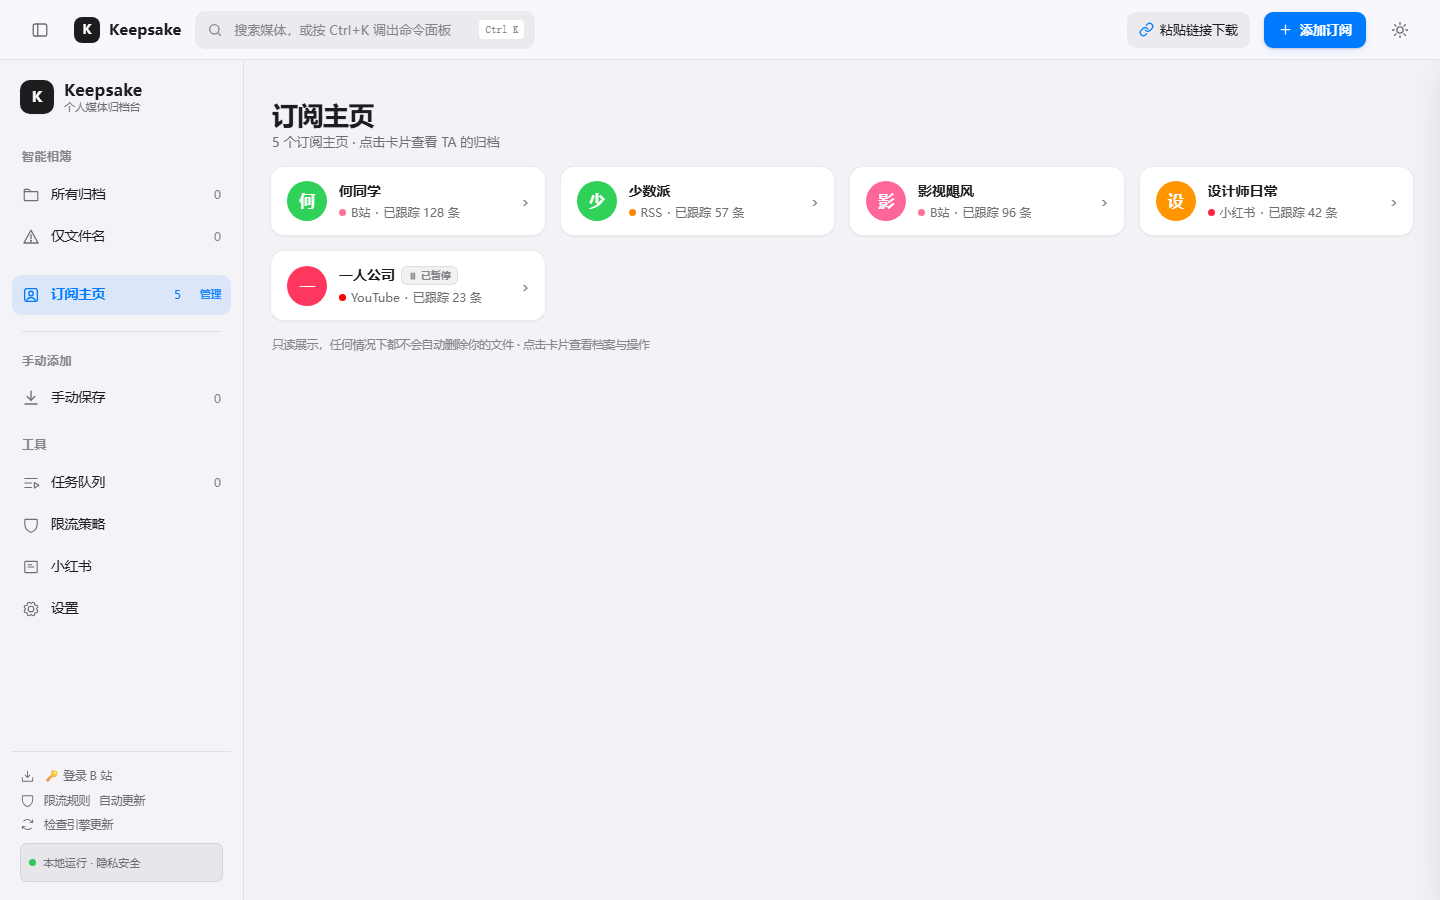
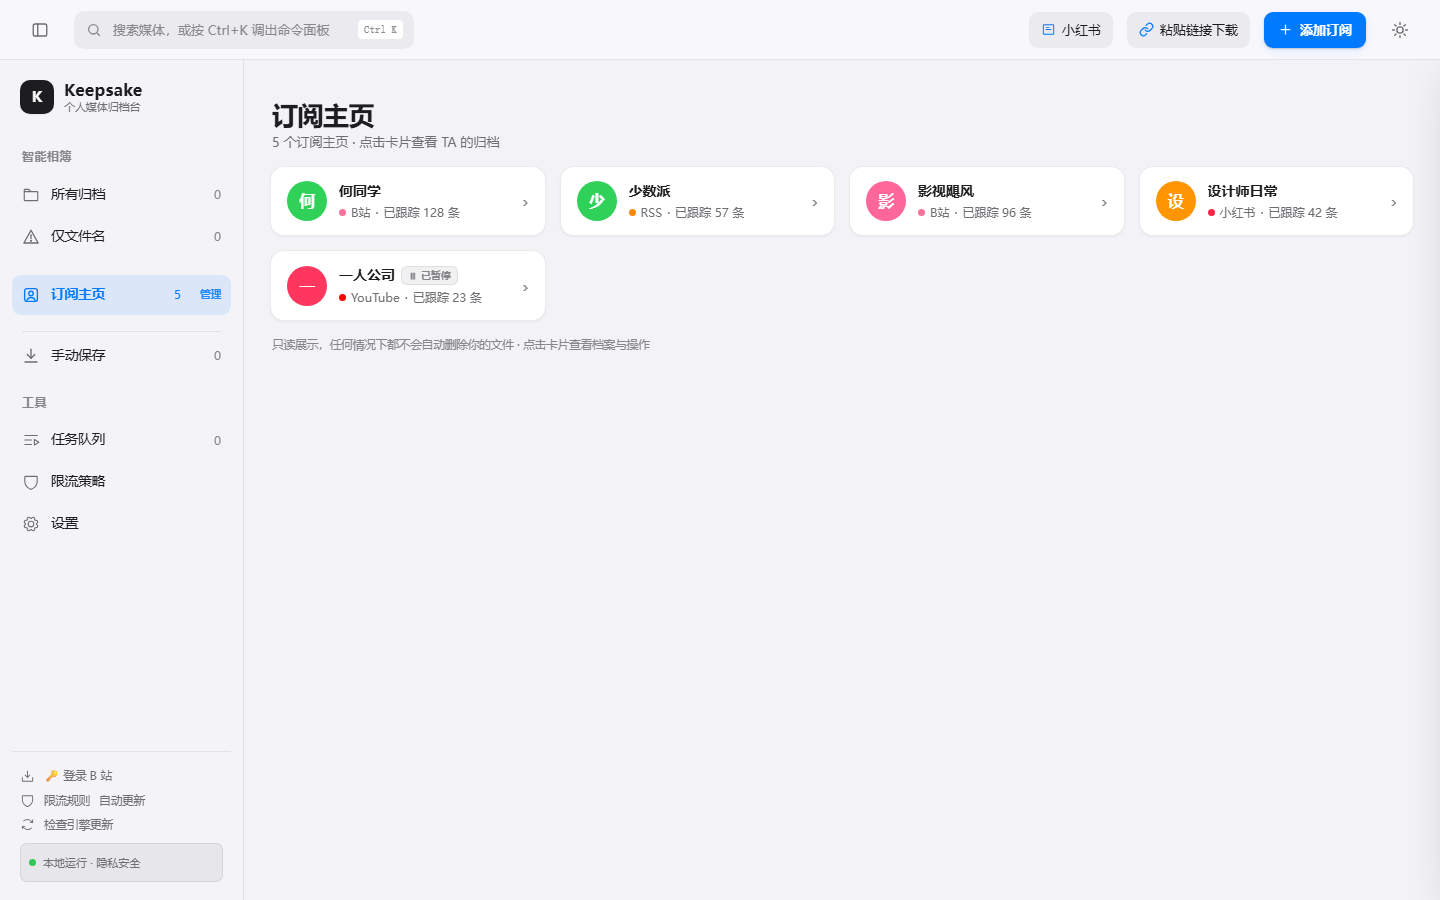
侧栏减负：删手动添加组标签、去工具栏重复品牌标识、小红书上移工具栏
- 侧栏删「手动添加」组标签（分隔线+手动保存单入口，组标签 3→2）
- 工具栏删 tb-brand，Keepsake 标识只留侧栏 logo（全局一个）
- 小红书入口从侧栏工具组上移工具栏（打开受控窗属动作类；任务队列是页面导航留侧栏）
- verify_fused 61/61，真机 11/11

diff --git a/app/index.html b/app/index.html
@@ -648,18 +648,21 @@
 
 <div class="app" id="app">
 
-  <!-- ============ 工具栏（毛玻璃固定面 1/4）：应用名 + 搜索/⌘K 触发框 + 主题切换 ============ -->
+  <!-- ============ 工具栏（毛玻璃固定面 1/4）：搜索/⌘K 触发框 + 小红书受控窗 + 主题切换（品牌标识只在侧栏） ============ -->
   <header class="toolbar">
     <button class="tb-btn" id="sidebarToggle" title="折叠 / 展开侧栏" aria-label="折叠 / 展开侧栏">
       <svg viewBox="0 0 24 24" fill="none" stroke="currentColor" stroke-width="1.8" stroke-linecap="round" stroke-linejoin="round"><rect x="3" y="4" width="18" height="16" rx="2.5"/><line x1="9" y1="4" x2="9" y2="20"/></svg>
     </button>
-    <div class="tb-brand"><span class="gem">K</span><span class="tb-name">Keepsake</span></div>
     <div class="search">
       <svg viewBox="0 0 24 24" fill="none" stroke="currentColor" stroke-width="2" stroke-linecap="round"><circle cx="11" cy="11" r="7"/><line x1="20" y1="20" x2="16.65" y2="16.65"/></svg>
       <input id="libKw" placeholder="搜索媒体，或按 Ctrl+K 调出命令面板" autocomplete="off" spellcheck="false" oninput="if(typeof renderSideSubs==='function')renderSideSubs();setLibKw(this.value)">
       <kbd class="tb-kbd">Ctrl K</kbd>
     </div>
     <div class="tb-spacer"></div>
+    <button class="tb-sec-btn" id="xhsWinBtn" onclick="openXhsWin()" title="打开小红书受控浏览器：浏览笔记页后点窗口内【📥 归档】一键保存图文/视频">
+      <svg viewBox="0 0 256 256" fill="currentColor"><path d="M208,40H48A16,16,0,0,0,32,56v144a16,16,0,0,0,16,16h160a16,16,0,0,0,16-16V56A16,16,0,0,0,208,40ZM48,200V56H208V200ZM80,88h64v16H80ZM80,120h96v16H80Z"/></svg>
+      <span class="label">小红书</span>
+    </button>
     <button class="tb-sec-btn" id="openDlModalBtn" title="粘贴单条或多条内容链接，下载到本地后可在媒体库「手动添加」里找到" aria-haspopup="dialog">
       <svg viewBox="0 0 24 24" fill="none" stroke="currentColor" stroke-width="2" stroke-linecap="round" stroke-linejoin="round"><path d="M10 13a5 5 0 0 0 7.54.54l3-3a5 5 0 0 0-7.07-7.07l-1.72 1.71"/><path d="M14 11a5 5 0 0 0-7.54-.54l-3 3a5 5 0 0 0 7.07 7.07l1.71-1.71"/></svg>
       <span class="label">粘贴链接下载</span>
@@ -682,14 +685,12 @@
   <div class="nav" data-nav="only" onclick="libViewGo('only')" title="没有可预览封面、只有文件名的内容"><svg viewBox="0 0 24 24" fill="none" stroke="currentColor" stroke-width="1.8" stroke-linecap="round" stroke-linejoin="round" style="fill:none"><path d="M12 3 2.5 20h19L12 3Z"/><line x1="12" y1="9" x2="12" y2="14"/><circle cx="12" cy="17" r=".6" fill="currentColor"/></svg>仅文件名 <span class="cnt" id="l-fileOnly">0</span></div>
   <div class="nav" data-nav="subs" onclick="libViewGo('subs')" style="margin-top:16px" title="所有订阅主页收在这里，点击在右侧查看详细名称"><svg viewBox="0 0 24 24" fill="none" stroke="currentColor" stroke-width="1.8" stroke-linecap="round" stroke-linejoin="round" style="fill:none"><rect x="3.5" y="3.5" width="17" height="17" rx="3"/><circle cx="12" cy="10" r="3"/><path d="M6.5 19a6 6 0 0 1 11 0"/></svg>订阅主页 <span class="cnt" id="sideSubCnt">0</span><span class="side-manage" style="margin-left:8px" onclick="event.stopPropagation();switchPage('rss')" title="订阅管理：检查频率/回溯/分组/批量操作">管理</span></div>
   <div class="side-sep"></div>
-  <div class="nav-grp">手动添加</div>
   <div class="nav" data-nav="manual" onclick="libViewGo('manual')" title="单独下载的内容都收在这里，没有订阅归属"><svg viewBox="0 0 24 24" fill="none" stroke="currentColor" stroke-width="1.8" stroke-linecap="round" stroke-linejoin="round" style="fill:none"><path d="M12 3v12"/><path d="m7 10 5 5 5-5"/><path d="M4 20h16"/></svg>手动保存 <span class="cnt" id="l-fileManual">0</span></div>
   <div class="nav-grp">工具</div>
   <div class="nav" data-page="tasks" onclick="switchPage('tasks')"><svg viewBox="0 0 256 256" fill="currentColor"><path d="M32,64a8,8,0,0,1,8-8H216a8,8,0,0,1,0,16H40A8,8,0,0,1,32,64Zm104,56H40a8,8,0,0,0,0,16h96a8,8,0,0,0,0-16Zm0,64H40a8,8,0,0,0,0,16h96a8,8,0,0,0,0-16Zm112-24a8,8,0,0,1-3.76,6.78l-64,40A8,8,0,0,1,168,200V120a8,8,0,0,1,12.24-6.78l64,40A8,8,0,0,1,248,160Zm-23.09,0L184,134.43v51.14Z"/></svg>任务队列 <span class="cnt" id="q-cnt">0</span></div>
   <div class="nav" data-page="strategy" onclick="switchPage('strategy')"><svg viewBox="0 0 256 256" fill="currentColor"><path d="M208,40H48A16,16,0,0,0,32,56v56c0,52.72,25.52,84.67,46.93,102.19,23.06,18.86,46,25.27,47,25.53a8,8,0,0,0,4.2,0c1-.26,23.91-6.67,47-25.53C198.48,196.67,224,164.72,224,112V56A16,16,0,0,0,208,40Zm0,72c0,37.07-13.66,67.16-40.6,89.42A129.3,129.3,0,0,1,128,223.62a128.25,128.25,0,0,1-38.92-21.81C61.82,179.51,48,149.3,48,112l0-56,160,0Z"/></svg>限流策略</div>
-  <!-- 视频号入口暂时下架（2026-11-19 拍板）：受控窗/IPC 保留，恢复时解开本行
+  <!-- 视频号入口暂时下架（2026-11-19 拍板）：受控窗/IPC 保留，恢复时解开本行（小红书入口已上移工具栏）
   <div class="nav" onclick="openChannelsWin()" title="打开微信视频号受控浏览器：官方页面正常登录浏览，播放后点窗口内【📥 归档】一键保存">📹 视频号</div> -->
-  <div class="nav" onclick="openXhsWin()" title="打开小红书受控浏览器：浏览笔记页后点窗口内【📥 归档】一键保存图文/视频"><svg viewBox="0 0 256 256" fill="currentColor"><path d="M208,40H48A16,16,0,0,0,32,56v144a16,16,0,0,0,16,16h160a16,16,0,0,0,16-16V56A16,16,0,0,0,208,40ZM48,200V56H208V200ZM80,88h64v16H80ZM80,120h96v16H80Z"/></svg>小红书</div>
   <div class="nav" data-page="settings" onclick="switchPage('settings')"><svg viewBox="0 0 256 256" fill="currentColor"><path d="M128,80a48,48,0,1,0,48,48A48.05,48.05,0,0,0,128,80Zm0,80a32,32,0,1,1,32-32A32,32,0,0,1,128,160Zm88-29.84q.06-2.16,0-4.32l14.92-18.64a8,8,0,0,0,1.48-7.06,107.21,107.21,0,0,0-10.88-26.25,8,8,0,0,0-6-3.93l-23.72-2.64q-1.48-1.56-3-3L186,40.54a8,8,0,0,0-3.94-6,107.71,107.71,0,0,0-26.25-10.87,8,8,0,0,0-7.06,1.49L130.16,40Q128,40,125.84,40L107.2,25.11a8,8,0,0,0-7.06-1.48A107.6,107.6,0,0,0,73.89,34.51a8,8,0,0,0-3.93,6L67.32,64.27q-1.56,1.49-3,3L40.54,70a8,8,0,0,0-6,3.94,107.71,107.71,0,0,0-10.87,26.25,8,8,0,0,0,1.49,7.06L40,125.84Q40,128,40,130.16L25.11,148.8a8,8,0,0,0-1.48,7.06,107.21,107.21,0,0,0,10.88,26.25,8,8,0,0,0,6,3.93l23.72,2.64q1.49,1.56,3,3L70,215.46a8,8,0,0,0,3.94,6,107.71,107.71,0,0,0,26.25,10.87,8,8,0,0,0,7.06-1.49L125.84,216q2.16.06,4.32,0l18.64,14.92a8,8,0,0,0,7.06,1.48,107.21,107.21,0,0,0,26.25-10.88,8,8,0,0,0,3.93-6l2.64-23.72q1.56-1.48,3-3L215.46,186a8,8,0,0,0,6-3.94,107.71,107.71,0,0,0,10.87-26.25,8,8,0,0,0-1.49-7.06Zm-16.1-6.5a73.93,73.93,0,0,1,0,8.68,8,8,0,0,0,1.74,5.48l14.19,17.73a91.57,91.57,0,0,1-6.23,15L187,173.11a8,8,0,0,0-5.1,2.64,74.11,74.11,0,0,1-6.14,6.14,8,8,0,0,0-2.64,5.1l-2.51,22.58a91.32,91.32,0,0,1-15,6.23l-17.74-14.19a8,8,0,0,0-5-1.75h-.48a73.93,73.93,0,0,1-8.68,0,8,8,0,0,0-5.48,1.74L100.45,215.8a91.57,91.57,0,0,1-15-6.23L82.89,187a8,8,0,0,0-2.64-5.1,74.11,74.11,0,0,1-6.14-6.14,8,8,0,0,0-5.1-2.64L46.43,170.6a91.32,91.32,0,0,1-6.23-15l14.19-17.74a8,8,0,0,0,1.74-5.48,73.93,73.93,0,0,1,0-8.68,8,8,0,0,0-1.74-5.48L40.2,100.45a91.57,91.57,0,0,1,6.23-15L69,82.89a8,8,0,0,0,5.1-2.64,74.11,74.11,0,0,1,6.14-6.14A8,8,0,0,0,82.89,69L85.4,46.43a91.32,91.32,0,0,1,15-6.23l17.74,14.19a8,8,0,0,0,5.48,1.74,73.93,73.93,0,0,1,8.68,0,8,8,0,0,0,5.48-1.74L155.55,40.2a91.57,91.57,0,0,1,15,6.23L173.11,69a8,8,0,0,0,2.64,5.1,74.11,74.11,0,0,1,6.14,6.14,8,8,0,0,0,5.1,2.64l22.58,2.51a91.32,91.32,0,0,1,6.23,15l-14.19,17.74A8,8,0,0,0,199.87,123.66Z"/></svg>设置</div>
   <div class="side-foot">
     <div class="frow"><svg viewBox="0 0 256 256" fill="currentColor"><path d="M224,144v64a8,8,0,0,1-8,8H40a8,8,0,0,1-8-8V144a8,8,0,0,1,16,0v56H208V144a8,8,0,0,1,16,0Zm-101.66,5.66a8,8,0,0,0,11.32,0l40-40a8,8,0,0,0-11.32-11.32L136,124.69V32a8,8,0,0,0-16,0v92.69L93.66,98.34a8,8,0,0,0-11.32,11.32Z"/></svg><span id="loginBadge" class="act" onclick="openLogin()">登录 B 站</span></div>

diff --git a/_tools/verify_fused.js b/_tools/verify_fused.js
@@ -78,7 +78,8 @@ document.addEventListener('DOMContentLoaded', () => {
   console.log('\n=== A. 融合版骨架结构 ===');
   const base = await page.evaluate(() => ({
     toolbar: !!document.querySelector('.toolbar'),
-    brand: !!document.querySelector('.tb-brand .tb-name'),
+    brand: !!document.querySelector('.sidebar .logo .logo-name') && !document.querySelector('.tb-brand'),
+    xhsBtn: !!document.getElementById('xhsWinBtn'),
     search: !!document.querySelector('.toolbar .search input#libKw'),
     themeBtn: !!document.getElementById('themeToggleBtn'),
     sideToggle: !!document.getElementById('sidebarToggle'),
@@ -91,8 +92,8 @@ document.addEventListener('DOMContentLoaded', () => {
     pages: [...document.querySelectorAll('.main .page')].map(p => p.id),
     app: !!document.getElementById('app')
   }));
-  ok('工具栏（应用名+真搜索框+主题按钮+侧栏开关）', () => assert(base.toolbar && base.brand && base.search && base.themeBtn && base.sideToggle, JSON.stringify(base)));
-  ok('毛玻璃侧栏在 workspace 内，四页导航 + 三分组（智能相簿/手动添加/工具，订阅主页为单入口）', () => assert(base.sidebar && base.navs.length === 4 && base.grp === 3 && base.navs[0] === 'lib' && !base.navs.includes('rss'), JSON.stringify({ navs: base.navs, grp: base.grp })));
+  ok('工具栏（真搜索框+小红书受控窗入口+主题按钮+侧栏开关；品牌标识只在侧栏，全局仅一个 Keepsake）', () => assert(base.toolbar && base.brand && base.search && base.themeBtn && base.sideToggle && base.xhsBtn, JSON.stringify(base)));
+  ok('毛玻璃侧栏在 workspace 内，四页导航 + 两组标签（智能相簿/工具；订阅主页/手动保存为无标签单入口）', () => assert(base.sidebar && base.navs.length === 4 && base.grp === 2 && base.navs[0] === 'lib' && !base.navs.includes('rss'), JSON.stringify({ navs: base.navs, grp: base.grp })));
   ok('侧栏底部状态区（登录/规则/引擎更新入口）', () => assert(base.foot, 'no side-foot'));
   ok('⌘K 面板容器在位', () => assert(base.cmdk, 'no cmdk'));
   ok('详情抽屉在位', () => assert(base.drawer, 'no drawer'));
@@ -101,7 +102,7 @@ document.addEventListener('DOMContentLoaded', () => {
   ok('第三阶段：默认页 = 媒体库（启动第一眼）', () => assert(onPageLib));
   const sideShell = await page.evaluate(() => !!document.querySelector('.sidebar .nav[data-nav="manual"]') && !!document.querySelector('.sidebar .nav[data-nav="subs"]') && !!document.getElementById('sideSubCnt') && !document.getElementById('sideSubList'));
   const smartGroup = await page.evaluate(() => [...document.querySelectorAll('.sidebar .nav')].some(n => n.textContent.includes('仅文件名')) && [...document.querySelectorAll('.sidebar .nav')].some(n => n.textContent.includes('手动保存')) && !!document.getElementById('l-fileAll') && !!document.getElementById('l-fileOnly') && !!document.getElementById('l-fileManual'));
-  ok('第五批：智能相簿组带「所有归档/仅文件名」，手动添加组带「手动保存」', () => assert(smartGroup));
+  ok('第五批：智能相簿组带「所有归档/仅文件名」，手动保存为无标签单入口', () => assert(smartGroup));
   const manageLink = await page.evaluate(() => !!document.querySelector('.side-manage') && ![...document.querySelectorAll('.sidebar .nav')].some(n => n.textContent.includes('订阅归档')));
   ok('第四批：订阅管理入口在订阅主页组标题，工具组不再重复订阅归档 nav', () => assert(manageLink));
 
